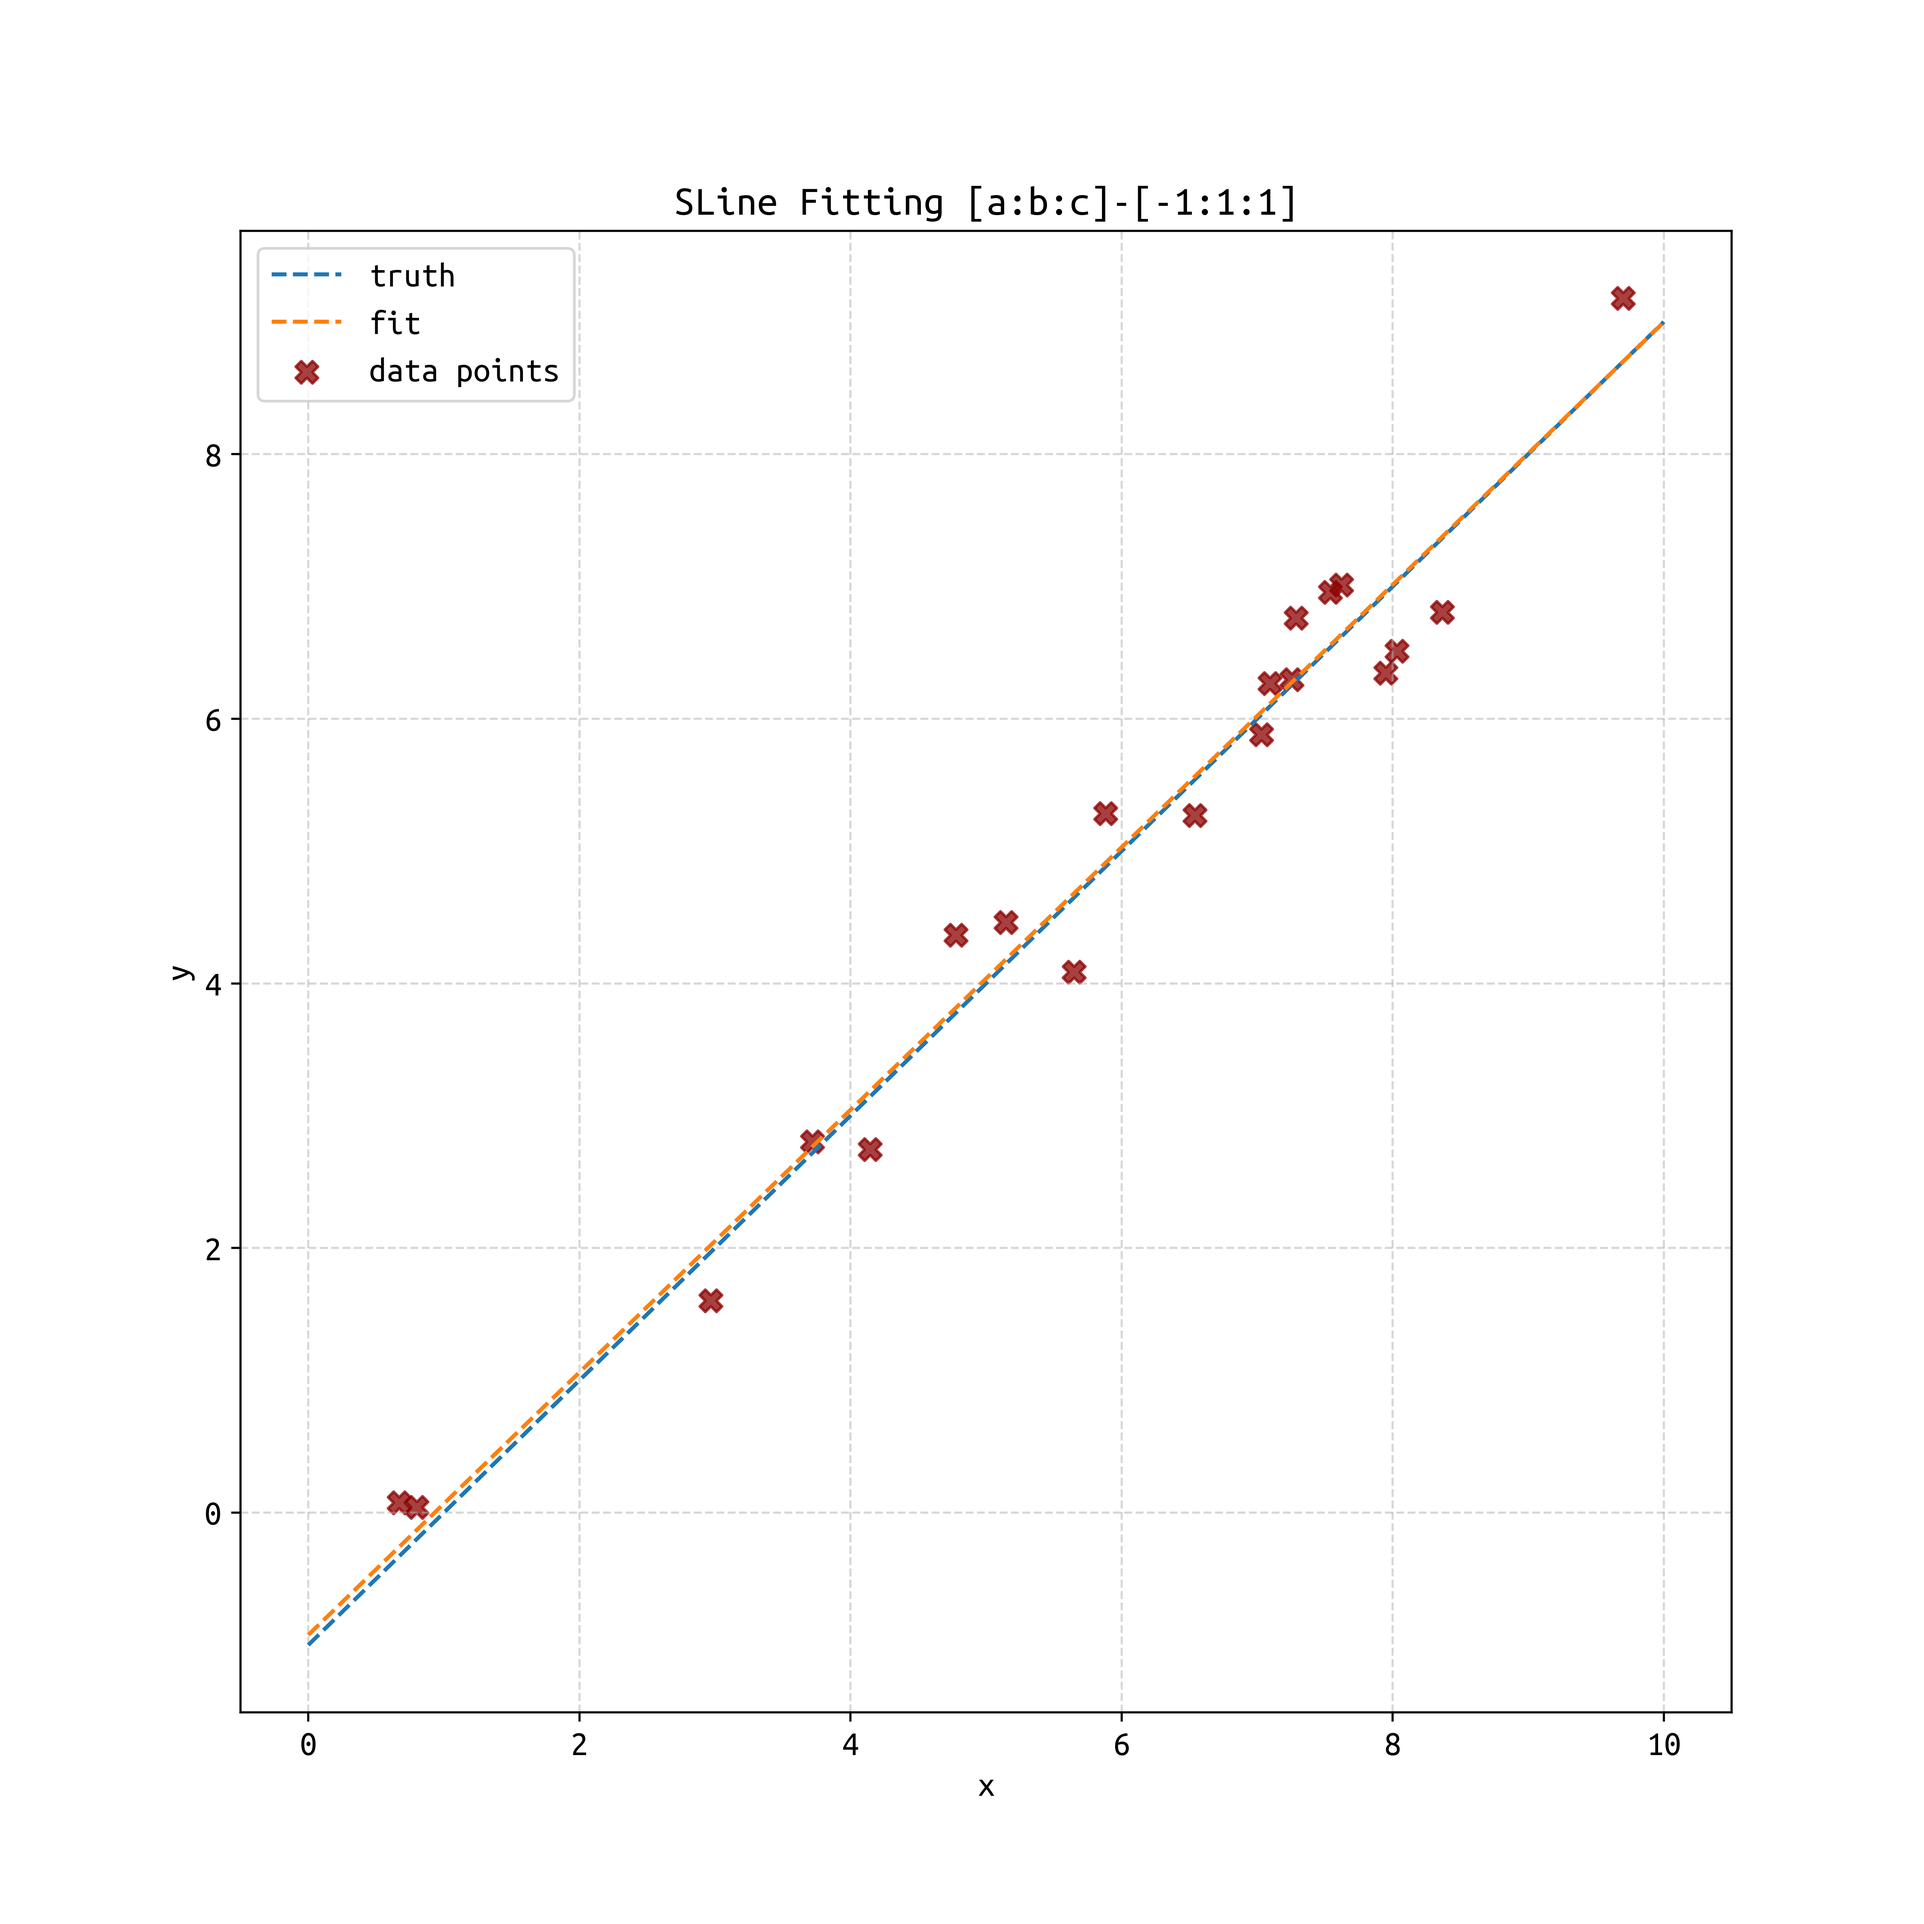
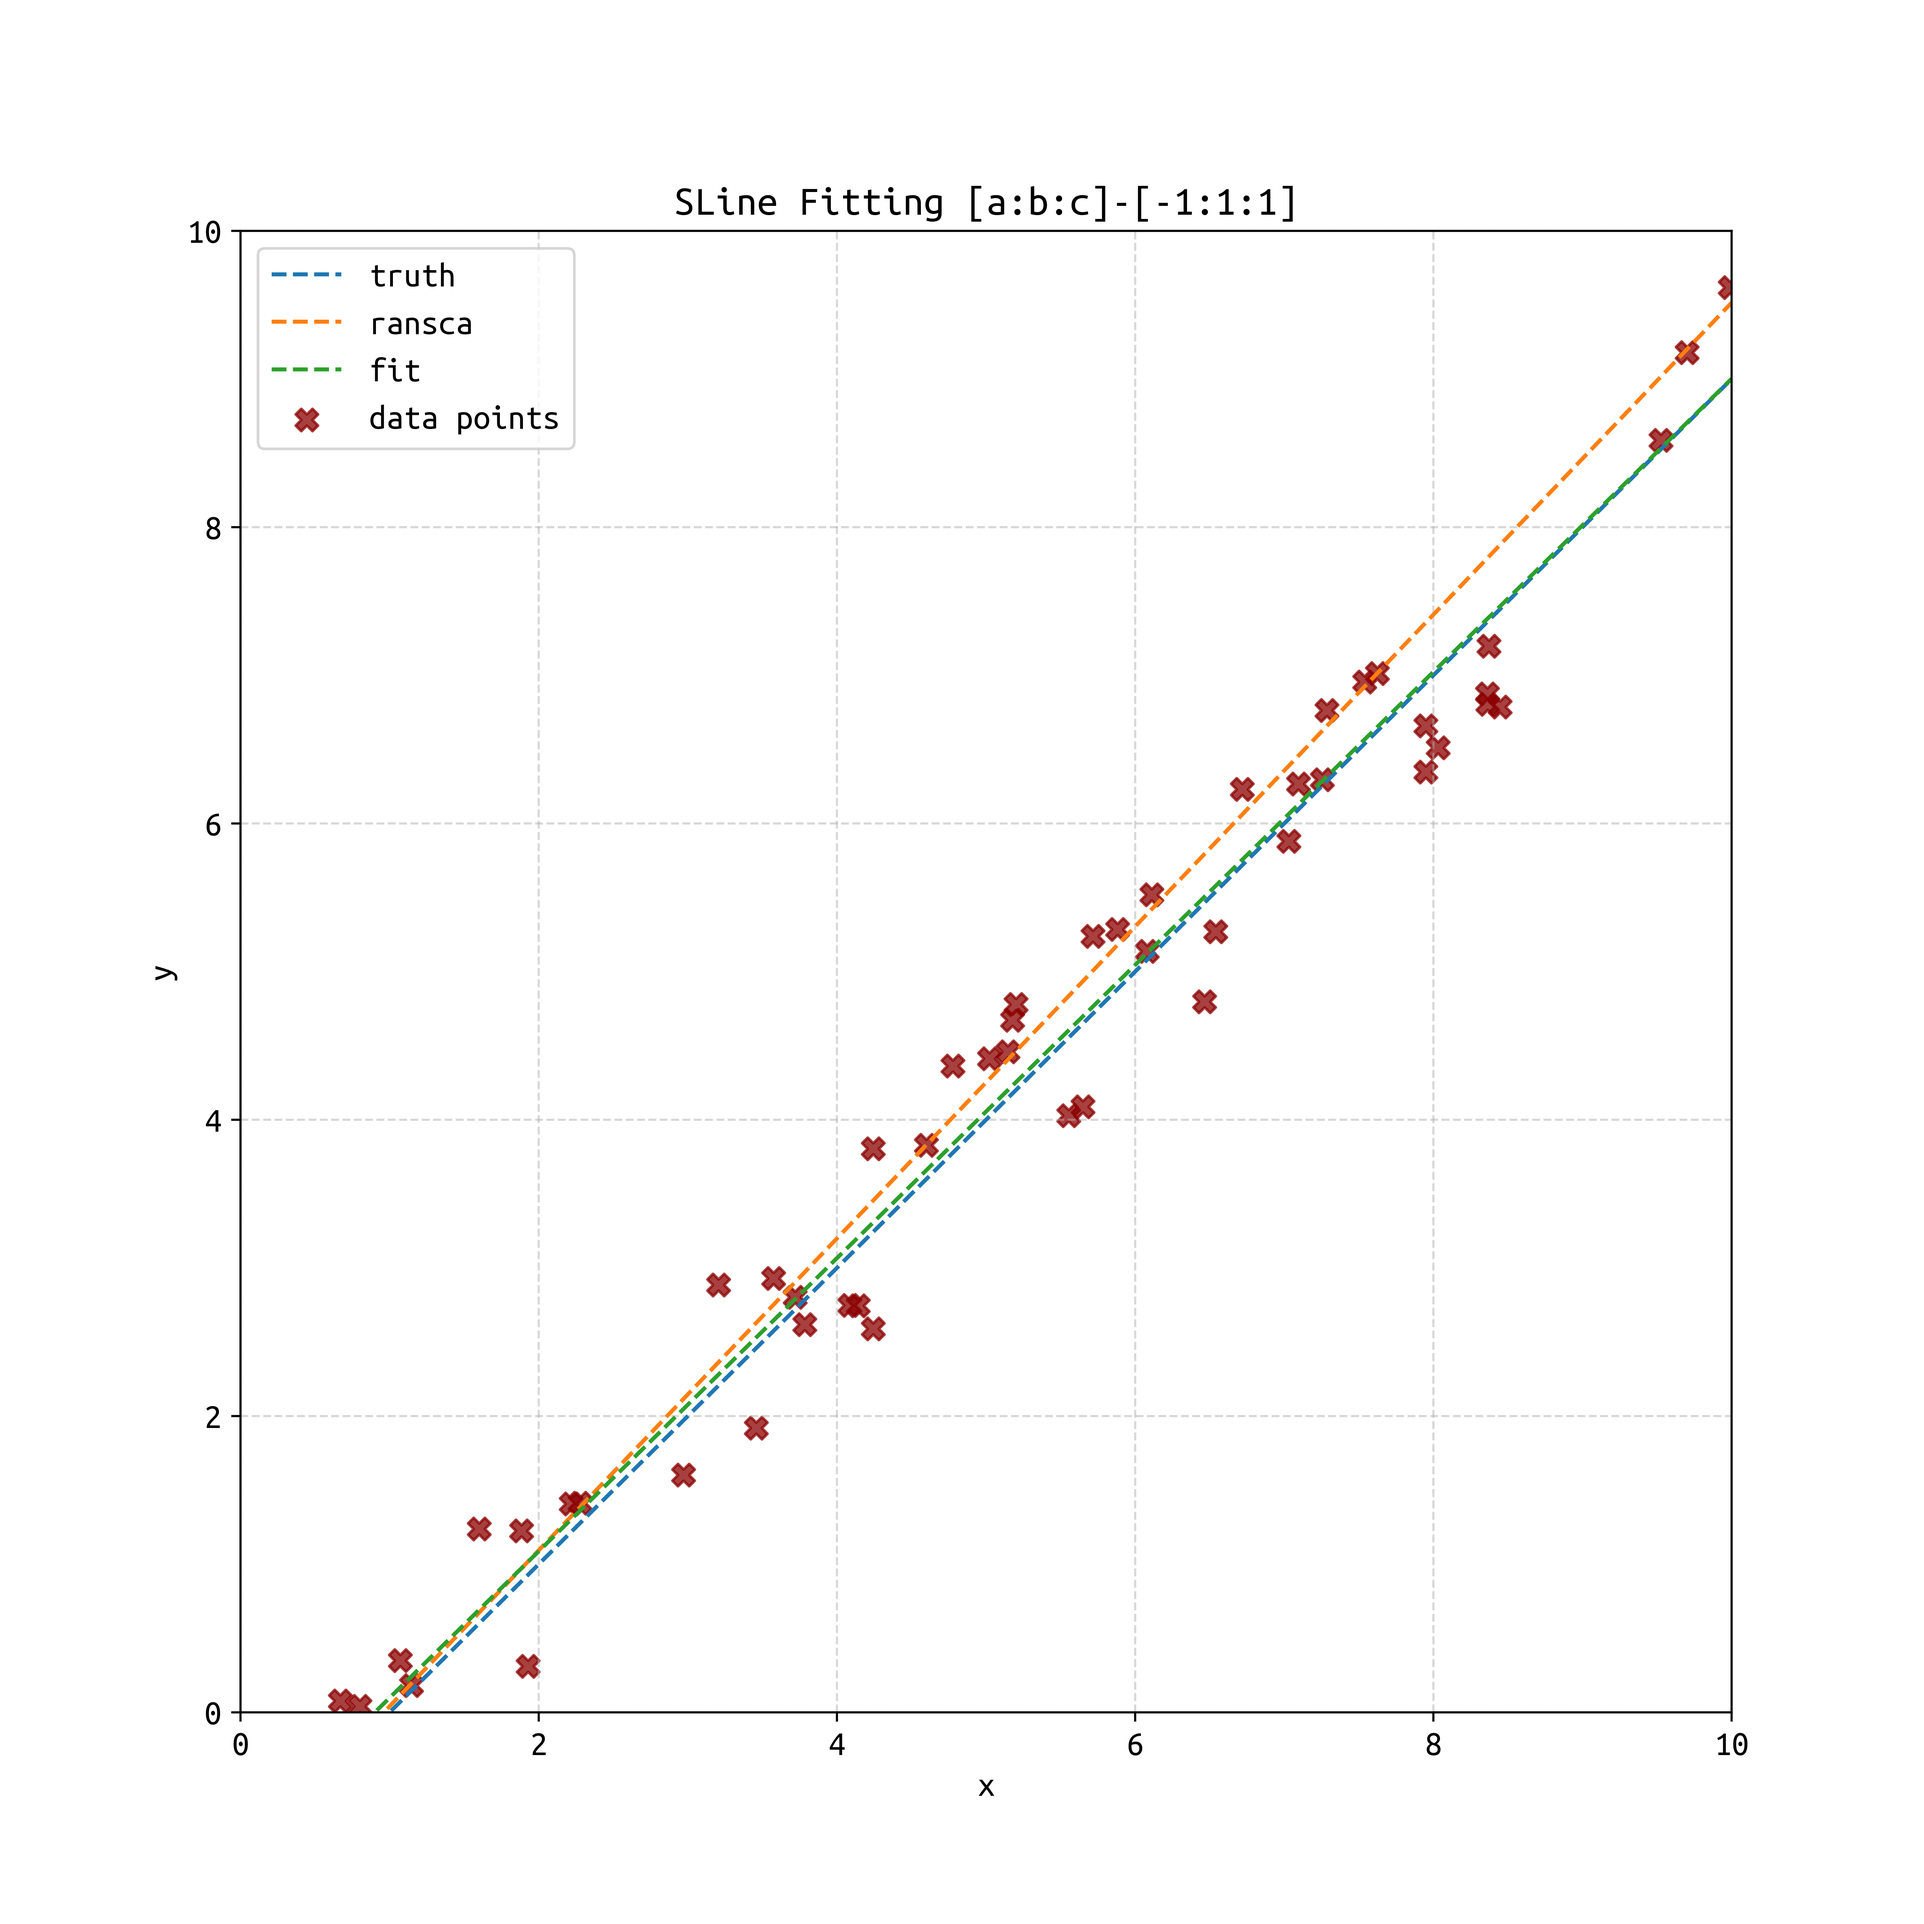
add ransac

diff --git a/section-inspection/thirdparty/geometry/sample.hpp b/section-inspection/thirdparty/geometry/sample.hpp
@@ -1,0 +1,154 @@
+#ifndef SAMPLING_H
+#define SMAPLING_H
+
+#include <iostream>
+#include <random>
+#include <vector>
+
+namespace ns_geo {
+
+  /**
+   * @brief sampling the amples without replacement
+   *
+   * @param num the num of the samples to sampling
+   * @param engine the random engine
+   * @param start the start index
+   * @param end the end index
+   * @param step the step
+   * @attention range: [start, end](step) i.e. for [1, 5](2) -> pool: {1, 3, 5}
+   * @return std::vector<std::size_t>
+   */
+  static std::vector<std::size_t> samplingWoutReplace(std::default_random_engine &engine,
+                                                      std::size_t num,
+                                                      std::size_t start,
+                                                      std::size_t end,
+                                                      std::size_t step = 1) {
+    // create the pool for sampling
+    std::vector<std::size_t> idxPool((end - start) / step + 1);
+    for (int i = 0; i != idxPool.size(); ++i) {
+      idxPool.at(i) = start + i * step;
+    }
+    std::vector<std::size_t> res(num);
+    // the engine
+    for (std::size_t i = 0; i != num; ++i) {
+      // generate the random index
+      std::uniform_int_distribution<std::size_t> ui(0, idxPool.size() - 1);
+      std::size_t ridx = ui(engine);
+      // record it
+      res.at(i) = idxPool.at(ridx);
+      // remove it
+      idxPool.at(ridx) = idxPool.back();
+      idxPool.pop_back();
+    }
+    return res;
+  }
+
+  /**
+   * @brief sampling the amples without replacement
+   *
+   * @tparam ElemType the element type
+   * @param engine the random engine
+   * @param dataVec the data vector
+   * @param num the num of the samples to sampling
+   * @return std::vector<std::size_t>
+   */
+  template <typename ElemType>
+  std::vector<std::size_t> samplingWoutReplace(std::default_random_engine &engine,
+                                               const std::vector<ElemType> &dataVec,
+                                               std::size_t num) {
+    return samplingWoutReplace(engine, num, 0, dataVec.size() - 1, 1);
+  }
+
+  /**
+   * @brief sampling the amples without replacement
+   *
+   * @tparam ElemType the element type
+   * @param engine the random engine
+   * @param dataVec the data vector
+   * @param num the num of the samples to sampling
+   * @return std::vector<ElemType>
+   */
+  template <typename ElemType>
+  std::vector<ElemType> samplingWoutReplace2(std::default_random_engine &engine,
+                                             const std::vector<ElemType> &dataVec,
+                                             std::size_t num) {
+    std::vector<std::size_t> res = samplingWoutReplace(engine, dataVec, num);
+    std::vector<ElemType> samples(num);
+    for (int i = 0; i != num; ++i) {
+      samples.at(i) = dataVec.at(res.at(i));
+    }
+    return samples;
+  }
+
+  /**
+   * @brief sampling the amples with replacement
+   *
+   * @param engine the random engine
+   * @param num the num of the samples to sampling
+   * @param start the start index
+   * @param end the end index
+   * @param step the step
+   * @attention range: [start, end](step) i.e. for [1, 5](2) -> pool: {1, 3, 5}
+   * @return std::vector<std::size_t>
+   */
+  static std::vector<std::size_t> samplingWithReplace(std::default_random_engine &engine,
+                                                      std::size_t num,
+                                                      std::size_t start,
+                                                      std::size_t end,
+                                                      std::size_t step = 1) {
+    // create the pool for sampling
+    std::vector<std::size_t> idxPool((end - start) / step + 1);
+    for (int i = 0; i != idxPool.size(); ++i) {
+      idxPool.at(i) = start + i * step;
+    }
+    std::vector<std::size_t> res(num);
+    // the engine
+    std::uniform_int_distribution<std::size_t> ui(0, idxPool.size() - 1);
+    for (std::size_t i = 0; i != num; ++i) {
+      // generate the random index
+      std::size_t ridx = ui(engine);
+      // record it
+      res.at(i) = idxPool.at(ridx);
+    }
+    return res;
+  }
+
+  /**
+   * @brief sampling the amples with replacement
+   *
+   * @tparam ElemType the element type
+   * @param engine the random engine
+   * @param dataVec the data vector
+   * @param num the num of the samples to sampling
+   * @return std::vector<std::size_t>
+   */
+  template <typename ElemType>
+  std::vector<std::size_t> samplingWithReplace(std::default_random_engine &engine,
+                                               const std::vector<ElemType> &dataVec,
+                                               std::size_t num) {
+    return samplingWithReplace(engine, num, 0, dataVec.size() - 1, 1);
+  }
+
+  /**
+   * @brief sampling the amples with replacement
+   *
+   * @tparam ElemType the element type
+   * @param engine the random engine
+   * @param dataVec the data vector
+   * @param num the num of the samples to sampling
+   * @return std::vector<ElemType>
+   */
+  template <typename ElemType>
+  std::vector<ElemType> samplingWithReplace2(std::default_random_engine &engine,
+                                             const std::vector<ElemType> &dataVec,
+                                             std::size_t num) {
+    std::vector<std::size_t> res = samplingWithReplace(engine, dataVec, num);
+    std::vector<ElemType> samples(num);
+    for (int i = 0; i != num; ++i) {
+      samples.at(i) = dataVec.at(res.at(i));
+    }
+    return samples;
+  }
+} // namespace ns_geo
+
+#endif

diff --git a/section-inspection/pyDrawer/drawer.py b/section-inspection/pyDrawer/drawer.py
@@ -6,8 +6,8 @@ plt.rcParams["font.family"] = "Ubuntu Mono"
 plt.rcParams["font.size"] = 13
 plt.figure(figsize=(10, 10))
 
-pts = [[6.53919, 5.26929], [3.19033, 5.04523], [0.907329, 4.93977], [8.45982, 5.13274], [1.78328, 4.67917], [7.48293, 4.9848], [9.61095, 4.88515], [2.0325, 4.76432], [9.31674, 4.523], [0.651939, 5.24987], [6.82049, 4.88943], [5.88119, 5.28548], [6.61355, 4.60434], [2.15826, 5.44023], [5.19988, 4.77804], [6.65503, 4.51851], [0.653563, 5.19175], [2.4044, 4.55072], [8.34338, 5.09658], [2.20516, 5.19303], [1.61419, 5.19337], [8.04912, 4.91841], [2.77198, 5.22215], [4.99657, 4.83873], [6.46495, 4.79779], [
-    2.64133, 5.16531], [1.55873, 4.58046], [3.23429, 5.34876], [9.61436, 4.76952], [1.18397, 5.05059], [4.01555, 4.68209], [5.17596, 4.67209], [3.18549, 4.92207], [2.01617, 5.42825], [6.0802, 5.13759], [5.71627, 5.23785], [0.602413, 5.3186], [8.46325, 5.49302], [4.66967, 5.17482], [9.36609, 4.87048], [7.53337, 5.48907], [0.915335, 5.263], [2.52718, 4.91122], [8.51649, 5.49228], [7.76984, 5.49478], [7.46284, 5.41796], [2.16246, 4.93255], [0.825976, 4.99835], [5.1529, 5.49814], [8.67991, 5.1707]]
+pts = [[0.668422, 0.0769819], [6.53919, 5.26929], [7.62198, 7.01191], [4.77732, 4.36411], [7.25412, 6.29543], [4.14293, 2.74588], [5.64899, 4.08767], [8.03073, 6.51254], [5.14659, 4.46023], [8.3642, 6.80562], [7.9477, 6.34717], [7.02989, 5.87989], [5.88119, 5.28548], [7.28608, 6.76237], [9.70087, 9.17848], [7.53863, 6.95679], [0.799169, 0.0425392], [7.0932, 6.26861], [3.7191, 2.80289], [2.97022, 1.60274], [5.19988, 4.77804], [1.88276, 1.22507], [4.24336, 2.59014], [8.36207, 6.87414], [1.60083, 1.23849], [
+    4.59763, 3.82822], [3.78366, 2.61779], [3.45872, 1.91984], [2.21656, 1.4071], [5.02275, 4.41313], [1.07181, 0.350595], [6.11111, 5.51829], [9.52431, 8.58766], [4.24134, 3.80608], [6.46495, 4.79779], [7.94881, 6.65973], [3.20611, 2.88654], [3.57526, 2.93043], [8.37082, 7.19795], [6.71648, 6.23243], [1.14529, 0.182512], [2.27488, 1.41179], [5.17596, 4.67209], [1.92647, 0.312551], [4.08626, 2.74869], [9.99092, 9.61921], [6.0802, 5.13759], [5.71627, 5.23785], [8.44641, 6.78709], [5.55453, 4.02784]]
 
 x = [pts[idx][0] for idx in range(len(pts))]
 y = [pts[idx][1] for idx in range(len(pts))]
@@ -27,18 +27,19 @@ def drawLine(name, a, b, c):
     plt.plot(xline, yline, "--", label=name)
 
 
-drawLine('truth', 0, 1, -5)
-drawLine('fit', -0.00045055, -0.193828, 0.981035)
+drawLine('truth', -1, 1, 1)
+drawLine('ransca', -0.594865, 0.565093, 0.57167)
+drawLine('fit', 0.594102, -0.600518, -0.535183)
 
 plt.scatter(x, y, c='darkred', alpha=0.75,
             marker='X', s=70, label="data points")
 
-plt.title("SLine Fitting [a:b:c]-[0:1:-5]")
+plt.title("SLine Fitting [a:b:c]-[-1:1:1]")
 plt.xlabel('x')
 plt.ylabel('y')
 plt.xlim((0, 10))
 plt.ylim((0, 10))
 plt.grid(ls='--', alpha=0.5)
 plt.legend()
-plt.savefig("./img/sline_fit_3.png", dpi=500)
+plt.savefig("./img/sline_fit_1.png", dpi=500)
 plt.show()

diff --git a/section-inspection/src/src/sline.cpp b/section-inspection/src/src/sline.cpp
@@ -1,26 +1,32 @@
 #include "sline.h"
-#include "eigen3/Eigen/Dense"
 #include "logger/logger.h"
 
 namespace ns_section {
 
+  SLine SLine::ransac(const ns_geo::PointSet2d &pts, const ushort iter) {
+    std::vector<std::pair<SLine, double>> lines;
+    std::default_random_engine e;
+    for (int i = 0; i != iter; ++i) {
+      auto tp = ns_geo::samplingWoutReplace(e, pts, 2);
+      SLine l(pts[tp[0]], pts[tp[1]]);
+      double error = 0.0;
+      for (const auto &p : pts) {
+        error += l.distance(p);
+      }
+      lines.push_back({l, error});
+    }
+    auto tar = std::min_element(lines.cbegin(), lines.cend(),
+                                [](const std::pair<SLine, double> &p1, const std::pair<SLine, double> &p2) {
+                                  return p1.second < p2.second;
+                                });
+    return tar->first;
+  }
+
   SLine SLine::fit(const ns_geo::PointSet2d &pts) {
-    // using svd to find the init value
-    Eigen::MatrixXd A(pts.size(), 3);
-    for (int i = 0; i != pts.size(); ++i) {
-      A(i, 0) = pts[i].x;
-      A(i, 1) = pts[i].y;
-      A(i, 2) = 1.0;
-    }
-    Eigen::JacobiSVD<Eigen::MatrixXd> svd(A, Eigen::ComputeFullV);
-    Eigen::Matrix3d vMatrix = svd.matrixV();
-    Eigen::Vector3d param = vMatrix.col(vMatrix.cols() - 1);
-    // if the sline is Vertical, than gauss newton is useless
-    if (std::abs(param(1)) < 1E-10) {
-      return SLine(param(0), param(1), param(2));
-    }
+    // ransac
+    SLine l = SLine::ransac(pts);
     // gauss newton [assign init value]
-    double k = -param(0) / param(1), b = -param(2) / param(0);
+    double k = -l.a / l.b, b = -l.c / l.b;
     for (int i = 0; i != 10; ++i) {
       Eigen::Matrix2d H = Eigen::Matrix2d::Zero();
       Eigen::Vector2d g = Eigen::Vector2d::Zero();

diff --git a/section-inspection/src/include/sline.h b/section-inspection/src/include/sline.h
@@ -1,7 +1,10 @@
 #ifndef SLINE_H
 #define SLINE_H
 
+#include "eigen3/Eigen/Dense"
 #include "geometry/point.hpp"
+#include "geometry/sample.hpp"
+
 
 namespace ns_section {
   struct SLine {
@@ -25,8 +28,20 @@ namespace ns_section {
       this->c = c / norm;
     }
 
+    SLine(const ns_geo::Point2d &p1, const ns_geo::Point2d &p2) {
+      Eigen::MatrixXd A(2, 3);
+      A(0, 0) = p1.x, A(0, 1) = p1.y, A(0, 2) = 1;
+      A(1, 0) = p2.x, A(1, 1) = p2.y, A(1, 2) = 1;
+      Eigen::JacobiSVD<Eigen::MatrixXd> svd(A, Eigen::ComputeFullV);
+      Eigen::Matrix3d vMatrix = svd.matrixV();
+      Eigen::Vector3d param = vMatrix.col(vMatrix.cols() - 1);
+      a = param(0), b = param(1), c = param(2);
+    }
+
     // Fit lines from points
     static SLine fit(const ns_geo::PointSet2d &pts);
+
+    static SLine ransac(const ns_geo::PointSet2d &pts, const ushort iter = 10);
 
     // Solve the nearest point from the target point to the line
     ns_geo::Point2d nearest(const ns_geo::Point2d &p) const;

diff --git a/section-inspection/src/main.cpp b/section-inspection/src/main.cpp
@@ -3,18 +3,12 @@
 #include "logger/logger.h"
 
 int main(int argc, char const *argv[]) {
-  ns_section::SLine tl(0, 1, -5);
+  ns_section::SLine tl(1, 0, -5);
   auto pts = ns_geo::PointSet2d::randomGenerator(50, 0, 10, 0, 10, [&tl](const ns_geo::Point2d &p) {
     return tl.distance(p) < 0.5;
   });
+  auto l_ransac = ns_section::SLine::ransac(pts);
   auto l_fit = ns_section::SLine::fit(pts);
-  LOG_VAR(tl, l_fit);
-  float error_truth = 0.0;
-  float error_fit = 0.0;
-  for (const auto &p : pts) {
-    error_truth += tl.distance(p);
-    error_fit += l_fit.distance(p);
-  }
-  LOG_VAR(error_truth, error_fit);
+  LOG_VAR(tl, l_ransac, l_fit);
   return 0;
 }
